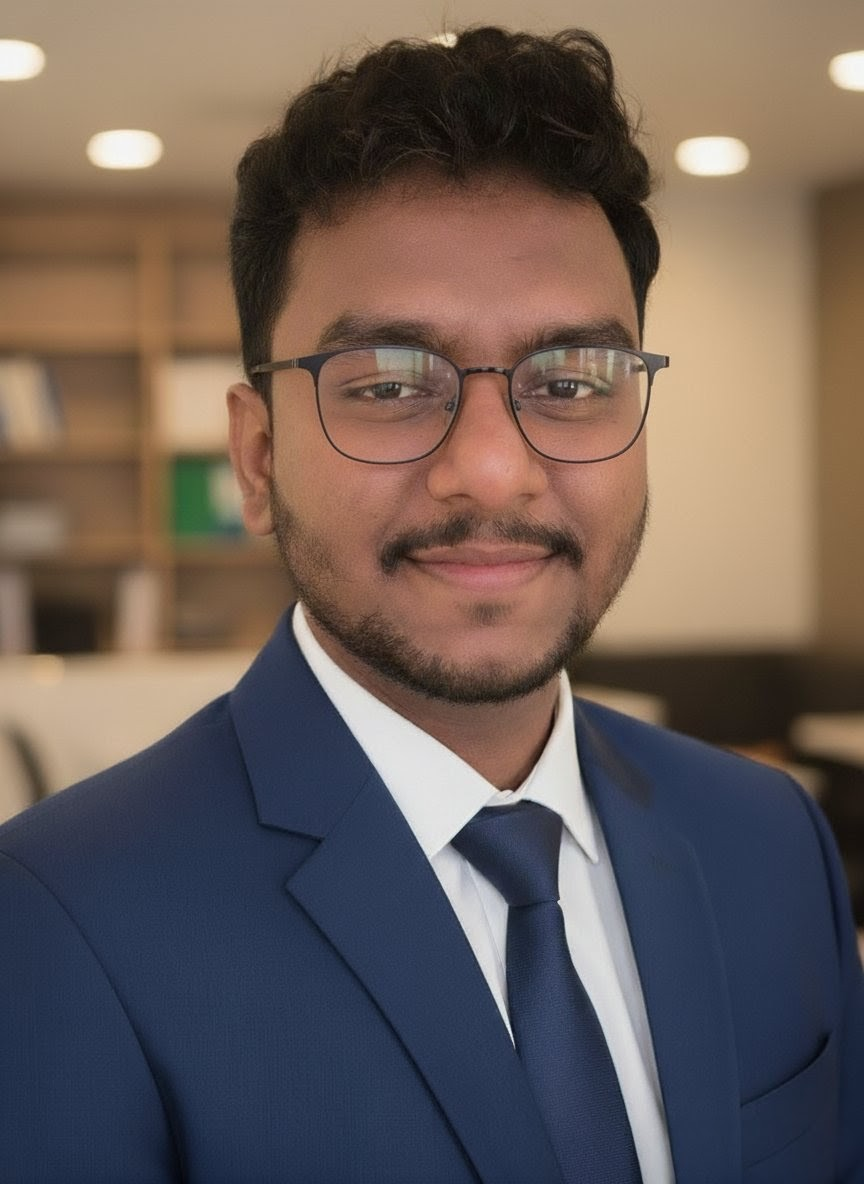
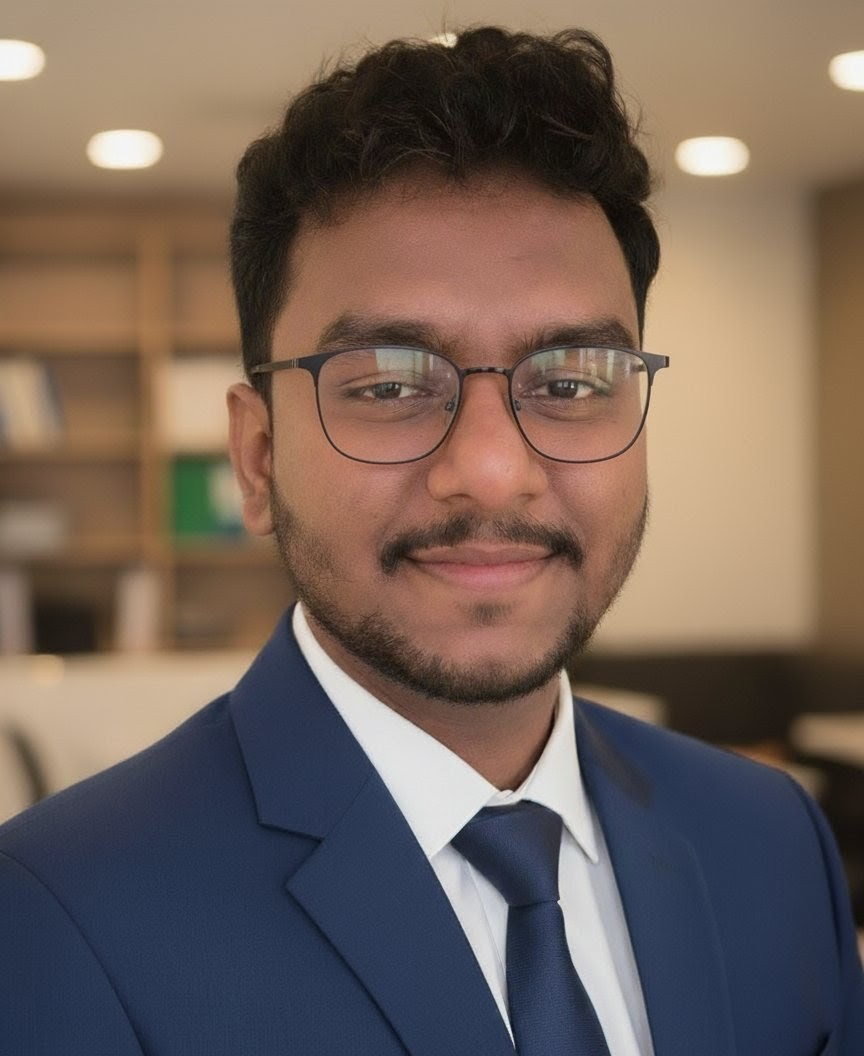
profile pic adjustments

diff --git a/index.html b/index.html
@@ -42,7 +42,7 @@
       <div class="sidebar-info">
 
         <figure class="avatar-box">
-          <img src="./assets/images/my-avatar.jpg" alt="Pranav Bongane" width="80">
+          <img src="./assets/images/my-avatar.jpg" alt="Pranav Bongane" width="70">
         </figure>
 
         <div class="info-content">
